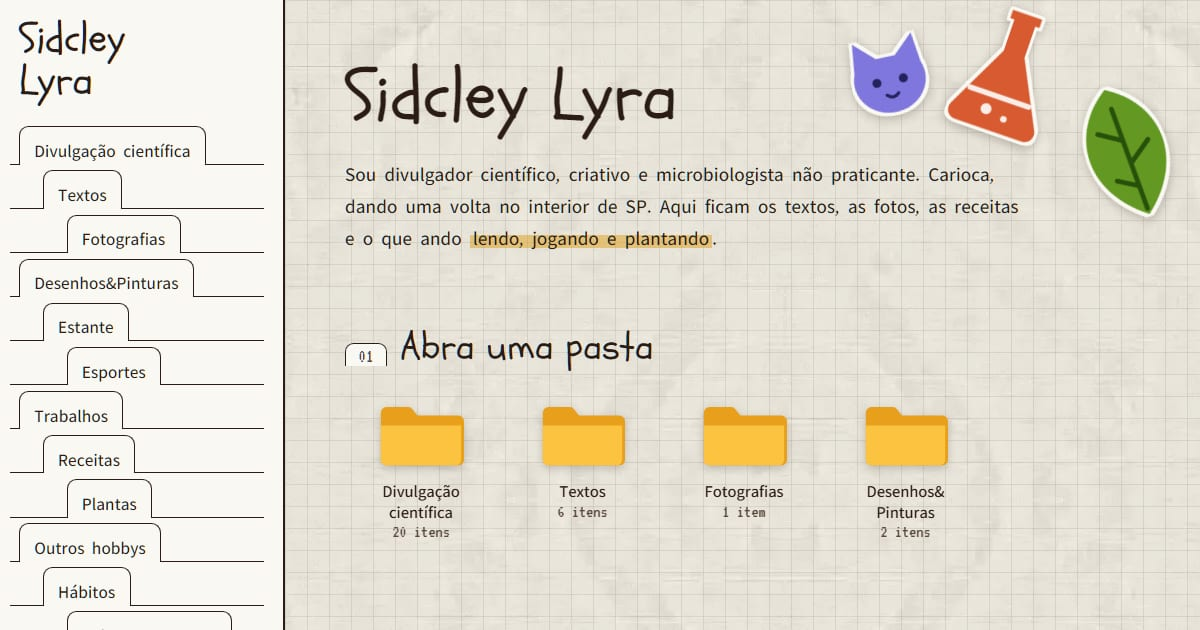
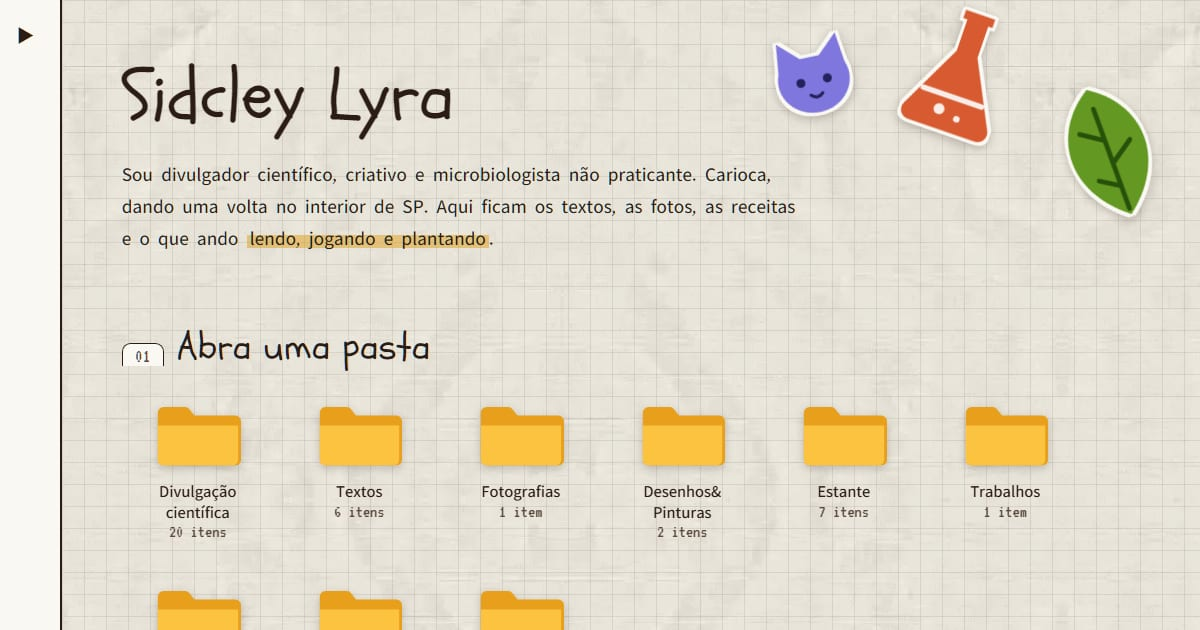
Ajustes da home, caminho navegável e menu recolhido
- novidades.txt: minimizar (só a barra de título) e maximizar (todas as
  entradas), com animação
- "1 online" ao lado da data; Hábitos e Vida em semanas como atalhos com
  ícones em pixel do kit (HP e ampulheta)
- menu lateral começa recolhido
- Hábitos volta aos botões anteriores, nas cores novas
- C:\LYRASID\... sai do pé e vira caminho navegável abaixo dos títulos

Changed region(s): [[0.0, 0.0, 0.8942, 1.0], [0.6475, 0.0, 0.9867, 0.3619], [0.4008, 0.9349, 0.4933, 1.0]]

diff --git a/src/assets/estilo.css b/src/assets/estilo.css
@@ -225,7 +225,6 @@ figcaption p { margin: .4rem 0 0; }
 /* pé de todas as páginas: a versão leva ao registro de mudanças (/mudancas/); à direita, o "caminho" da página */
 .versao { position: absolute; z-index: 2; bottom: 1.5rem; left: clamp(1rem, 5vw, 4rem); right: clamp(1rem, 5vw, 4rem); display: flex; flex-wrap: wrap; justify-content: space-between; gap: .2rem 1rem; font-family: var(--f-sis); font-size: 1rem; line-height: 1.1; color: var(--tinta-2); }
 .versao a { color: var(--vinho); }
-.versao .caminho { margin-left: auto; overflow-wrap: anywhere; }
 @media print { .versao { display: none; } }
 
 /* ---------- adesivos ---------- */
@@ -707,16 +706,24 @@ body.negado .console { color: #ff5f4e; animation: tremer .09s 4; }
 .habitos-senha { display: flex; flex-wrap: wrap; align-items: center; gap: .6rem; max-width: 30rem; }
 .habitos-senha[hidden] { display: none; }
 .habitos-senha label { flex-basis: 100%; }
-.habitos-senha input { flex: 1; min-width: 0; min-height: 2.3rem; padding: .35rem .6rem; font: inherit; color: var(--tinta); border: 0; background: var(--papel); box-shadow: var(--relevo-fundo); }
+.habitos-senha input { flex: 1; min-width: 0; padding: .35rem .6rem; font: inherit; color: var(--tinta); border: 1.5px solid var(--tinta); border-radius: .35rem; background: var(--papel); }
 .habitos-aviso { flex-basis: 100%; min-height: 1.6em; margin: 0; font-style: italic; }
+.habitos button { font: inherit; color: var(--tinta); }
+.habitos-senha button, .habitos-salvar { padding: .2rem .9rem; font: inherit; color: var(--tinta); background: var(--papel); border: 1.5px solid var(--tinta); border-radius: 999px; cursor: pointer; }
+.habitos-salvar:not(:disabled):hover, .habitos-senha button:hover { color: var(--papel); background: var(--vinho); border-color: var(--vinho); }
+.habitos-salvar:disabled { opacity: .35; cursor: default; }
 
 .habitos-topo { display: flex; flex-wrap: wrap; align-items: center; gap: .6rem 1.5rem; margin-bottom: 1rem; }
-.habitos-modo { display: flex; gap: 2px; }
-.habitos-nav { display: flex; align-items: center; gap: .6rem; }
+.habitos-modo, .habitos-nav { display: flex; align-items: center; gap: .6rem; }
+.habitos-modo button { padding: .1rem 0; background: none; border: 0; border-bottom: 2px solid transparent; opacity: .5; cursor: pointer; }
+.habitos-modo button[aria-pressed="true"] { opacity: 1; border-bottom-color: var(--vinho); }
+.habitos-nav button { padding: 0 .3rem; background: none; border: 0; cursor: pointer; }
+.habitos-nav button:disabled { opacity: .2; cursor: default; }
 .habitos-periodo { min-width: 9.5rem; margin: 0; font-size: 1.5rem; text-align: center; }
 
-.habitos-legenda { display: flex; flex-wrap: wrap; align-items: center; gap: .4rem .5rem; margin-bottom: 1rem; }
-.habitos-legenda button { display: inline-flex; align-items: center; gap: .45rem; }
+.habitos-legenda { display: flex; flex-wrap: wrap; align-items: center; gap: .3rem 1rem; margin-bottom: 1rem; font-size: .9rem; }
+.habitos-legenda button { display: flex; align-items: center; gap: .4rem; padding: .1rem .5rem; background: none; border: 1.5px solid transparent; border-radius: 999px; cursor: pointer; }
+.habitos-legenda button[aria-pressed="true"] { border-color: var(--tinta); }
 .habitos-legenda i { width: .9rem; height: .9rem; border: 1px solid rgba(43, 29, 22, .35); }
 .habitos-dica { opacity: .5; }
 .habitos[data-modo="ano"] .habitos-legenda { display: none; }
@@ -822,8 +829,7 @@ body.negado .console { color: #ff5f4e; animation: tremer .09s 4; }
 /* ---------- Caderno de Save: peças da interface ---------- */
 /* Conteúdo é papel; interface (salvar, abrir, escolher) é janela. Botões em relevo, retos,
    com a letra do computador (VT323); o principal em amarelo; ligado = afundado. */
-:where(.habitos-senha button, .habitos-salvar, .habitos-modo button, .habitos-nav button, .habitos-legenda button,
-    .edicao-barra button, .acoes-receita button, .cozinha-topo button:not(.cozinha-fechar)) {
+:where(.edicao-barra button, .acoes-receita button, .cozinha-topo button:not(.cozinha-fechar)) {
   display: inline-flex;
   align-items: center;
   justify-content: center;
@@ -840,10 +846,8 @@ body.negado .console { color: #ff5f4e; animation: tremer .09s 4; }
   box-shadow: var(--relevo);
   cursor: pointer;
 }
-:where(.habitos-senha button, .habitos-salvar, .edicao-barra [data-acao="salvar"]) { background: var(--amarelo); }
-:is(.habitos-modo, .habitos-legenda) button[aria-pressed="true"] { padding-top: .3rem; background: var(--cinza-luz); box-shadow: var(--relevo-fundo); }
-:where(.habitos-salvar, .habitos-nav button, .edicao-barra button):disabled { color: var(--cinza-sombra); background: var(--cinza-win); cursor: default; }
-.habitos-nav button { min-width: 2.3rem; padding-inline: .4rem; font-size: 1rem; }
+:where(.edicao-barra [data-acao="salvar"]) { background: var(--amarelo); }
+:where(.edicao-barra button):disabled { color: var(--cinza-sombra); background: var(--cinza-win); cursor: default; }
 .cozinha-topo button:not(.cozinha-fechar) { min-height: 2rem; font-size: 1.05rem; }
 
 /* datas, rótulos e contagens: o que o "computador" diz */
@@ -877,7 +881,8 @@ main > .post-it { max-width: 36rem; margin-bottom: 2.5rem; rotate: -.6deg; }
 .inicio .sobre h1 { margin-bottom: 1rem; }
 .inicio .sobre .texto { font-size: 1.05rem; }
 .inicio .sobre .texto > :first-child { margin-top: 0; }
-.saudacao { min-height: 1.2em; margin: 0 0 .4rem; font-family: var(--f-sis); font-size: 1.1rem; letter-spacing: .04em; color: var(--musgo); text-transform: uppercase; }
+.saudacao { display: flex; flex-wrap: wrap; gap: .2rem .6rem; min-height: 1.2em; margin: 0 0 .4rem; font-family: var(--f-sis); font-size: 1.1rem; letter-spacing: .04em; color: var(--musgo); text-transform: uppercase; }
+.saudacao-texto:not(:empty)::after { content: "·"; margin-left: .6rem; }
 
 /* título de seção com a aba numerada, como as divisórias do fichário */
 .aba-titulo { display: flex; align-items: flex-end; gap: .7rem; margin: 0 0 1.25rem; font-size: clamp(1.6rem, 3.2vw, 2.1rem); line-height: 1; }
@@ -892,18 +897,44 @@ main > .post-it { max-width: 36rem; margin-bottom: 2.5rem; rotate: -.6deg; }
 .inicio-mesa { display: flex; flex-wrap: wrap; align-items: flex-start; gap: 2.5rem 2.5rem; padding-bottom: 2rem; }
 .janela-fixa { flex: 1 1 22rem; max-width: 34rem; padding: 0; background: var(--cinza-win); box-shadow: var(--relevo), 6px 6px 0 rgba(43, 29, 22, .22); }
 .janela-fixa .janela-barra { padding-block: .3rem; }
-.janela-fixa .janela-botoes > * { cursor: default; }
+.janela-fixa .janela-botoes button { cursor: pointer; }
+.janela-fixa .janela-botoes button:active { box-shadow: var(--relevo-fundo); }
 .janela-fixa .janela-corpo { margin: 0 3px; padding: .5rem 1rem; list-style: none; }
+/* minimizada: o miolo (lista e status) encolhe para cima e fica só a barra de título */
+.janela-miolo { overflow: hidden; }
+.novidades.minimizada .janela-miolo { height: 0; }
+/* maximizada: todas as entradas e a largura toda da mesa (o post-it desce) */
+.inicio-mesa .novidades.maximizada { flex-basis: 100%; max-width: none; }
+.novidades:not(.maximizada) li:nth-child(n + 6) { display: none; }
 .novidades li { display: grid; grid-template-columns: 6.2rem minmax(0, 1fr) auto; gap: .2rem 1rem; align-items: baseline; padding: .55rem 0; border-bottom: 1px dashed rgba(43, 29, 22, .25); }
-.novidades li:last-child { border-bottom: 0; }
+.novidades li:last-child, .novidades:not(.maximizada) li:nth-child(5) { border-bottom: 0; }
 .novidades time { font-family: var(--f-sis); font-size: 1.05rem; color: var(--tinta-2); }
 .novidades li a { min-width: 0; }
 .novidades li small { font-family: var(--f-sis); font-size: 1rem; color: var(--musgo); text-align: right; }
-.janela-fixa .janela-status span:last-child { flex: 0 0 9rem; }
 .online::before { content: ""; display: inline-block; width: .6rem; height: .6rem; margin-right: .4rem; vertical-align: -.05rem; background: #5da83b; border: 1.5px solid var(--tinta); border-radius: 50%; }
 .inicio-mesa .post-it { flex: 0 1 18rem; margin-top: .5rem; }
 .post-it-data { margin: 0 0 .5rem; font-family: var(--f-sis); font-size: 1rem; color: var(--tinta-2); text-transform: uppercase; }
 .post-it-data a { color: inherit; }
+
+/* atalhos de programa (Hábitos, Vida em semanas): ícone em pixel com a setinha de atalho */
+.atalhos { display: flex; flex-wrap: wrap; gap: 1.25rem 1rem; margin: 0; padding: 0; list-style: none; }
+.atalho { display: grid; justify-items: center; gap: .35rem; width: 8rem; padding: .5rem; color: var(--tinta); text-align: center; text-decoration: none; }
+.atalho-icone { position: relative; display: grid; place-items: center; width: 4.5rem; height: 4rem; }
+.atalho-icone img { width: auto; height: 3.4rem; image-rendering: pixelated; filter: drop-shadow(0 3px 4px rgba(43, 29, 22, .22)); transition: transform .2s cubic-bezier(.2, .9, .3, 1.2); }
+.atalho-icone::after { content: "↗"; position: absolute; left: 0; bottom: 0; width: 1.1rem; height: 1.1rem; font-family: var(--f-sis); font-size: .95rem; line-height: 1.05rem; color: var(--tinta); background: var(--papel); box-shadow: inset 0 0 0 1.5px var(--tinta); }
+.atalho:hover img, .atalho:focus-visible img { transform: translateY(-6px) scale(1.07); }
+.atalho > span:not(.atalho-icone) { padding: .05rem .4rem; font-size: .9rem; line-height: 1.2; border-radius: 3px; }
+.atalho:hover > span:not(.atalho-icone), .atalho:focus-visible > span:not(.atalho-icone) { color: var(--papel); background: var(--tinta); }
+.atalho small { margin-top: -.2rem; font-family: var(--f-sis); font-size: .95rem; line-height: 1; color: var(--tinta-2); }
+
+/* caminho da página (C:\LYRASID\ESTANTE\) abaixo do título: cada pasta leva de volta a ela */
+.caminho { margin: 0 0 1.75rem; font-family: var(--f-sis); font-size: 1.15rem; line-height: 1.2; color: var(--tinta-2); overflow-wrap: anywhere; }
+h1 + .caminho { margin-top: -1rem; }
+.caminho a { color: var(--vinho); text-decoration: none; }
+.caminho a:hover, .caminho a:focus-visible { text-decoration: underline; }
+.caminho [aria-current] { color: var(--tinta); }
+.colecao .caminho + .meta { margin-top: -.6rem; }
+@media print { .caminho { display: none; } }
 
 @media (max-width: 768px) {
   .inicio { gap: 2.25rem; }

diff --git a/src/assets/site.js b/src/assets/site.js
@@ -23,12 +23,39 @@ document.addEventListener("click", (e) => {
 document.addEventListener("keydown", (e) => e.key === "Escape" && celular.matches && fecharMenu());
 
 // página inicial: "boa noite · 02.11.2026", na hora de quem visita
-const saudacao = document.querySelector(".saudacao");
+const saudacao = document.querySelector(".saudacao-texto");
 if (saudacao) {
   const agora = new Date();
   const hora = agora.getHours();
   const dia = (n) => String(n).padStart(2, "0");
   saudacao.textContent = `${hora >= 5 && hora < 12 ? "bom dia" : hora >= 12 && hora < 18 ? "boa tarde" : "boa noite"} · ${dia(agora.getDate())}.${dia(agora.getMonth() + 1)}.${agora.getFullYear()}`;
+}
+
+// página inicial: novidades.txt minimiza (fica só a barra de título, no mesmo lugar) e maximiza (todas as entradas)
+const novidades = document.querySelector(".novidades");
+if (novidades) {
+  const miolo = novidades.querySelector(".janela-miolo");
+  const [minimizar, maximizar] = novidades.querySelectorAll(".janela-botoes button");
+  const contagem = novidades.querySelector(".novidades-contagem");
+  const total = Number(contagem.dataset.total);
+  const calmo = matchMedia("(prefers-reduced-motion: reduce)");
+  // troca o estado e anima do tamanho antigo para o novo (a janela cresce e encolhe a partir do topo)
+  const trocar = (min, max) => {
+    const antes = { janela: novidades.getBoundingClientRect(), miolo: miolo.offsetHeight };
+    novidades.classList.toggle("minimizada", min);
+    novidades.classList.toggle("maximizada", max);
+    minimizar.setAttribute("aria-pressed", min);
+    maximizar.setAttribute("aria-pressed", max);
+    maximizar.textContent = max ? "❐" : "□";
+    maximizar.setAttribute("aria-label", max ? "Restaurar: voltar às 5 mais recentes" : "Maximizar: ver todas as novidades");
+    contagem.textContent = max || total <= 5 ? `${total} ${total === 1 ? "item" : "itens"}` : `5 de ${total} itens`;
+    if (calmo.matches) return;
+    const opcoes = { duration: 280, easing: "cubic-bezier(.2, .8, .3, 1)" };
+    miolo.animate([{ height: antes.miolo + "px" }, { height: miolo.offsetHeight + "px" }], opcoes);
+    novidades.animate([{ width: antes.janela.width + "px" }, { width: novidades.getBoundingClientRect().width + "px" }], opcoes);
+  };
+  minimizar.addEventListener("click", () => trocar(!novidades.classList.contains("minimizada"), false));
+  maximizar.addEventListener("click", () => trocar(false, !novidades.classList.contains("maximizada")));
 }
 
 // o link com #id abre o item: subtítulo que expande, pasta que vira janela ou ficha da estante

diff --git a/eleventy.config.js b/eleventy.config.js
@@ -221,6 +221,12 @@ export default function (eleventyConfig) {
   };
   eleventyConfig.addFilter("linkDoTexto", linkDoTexto);
 
+  // C:\LYRASID\FOTOGRAFIAS\PRAIA\ abaixo do título: cada pasta do endereço vira um link para ela.
+  eleventyConfig.addFilter("caminho", (url) => {
+    const partes = String(url ?? "").split("/").filter(Boolean);
+    return partes.map((p, i) => ({ nome: decodeURIComponent(p).toUpperCase(), url: "/" + partes.slice(0, i + 1).join("/") + "/" }));
+  });
+
   // ---------- página inicial ----------
   const paginaDaEstante = (paginas) => paginas.find((p) => p.data.tipo === "estante");
   // Quantos itens cada pasta guarda: a estante conta os dela, as outras páginas contam os textos.

diff --git a/CHANGELOG.md b/CHANGELOG.md
@@ -8,12 +8,14 @@ O que mudou no site, do mais novo para o mais antigo. Só entram mudanças no fu
   - **Cores:** saem o preto e o branco puros. O texto passa a ser tinta sépia, as folhas ficam cor de papel e a mesa vira papel almaço. Entram o amarelo d'O Jogador (botão principal e marca-texto) e o verde musgo. A margem do caderno pautado fica vinho, e a pauta, num azul mais suave.
   - **Janelas** com a barra vinho, no lugar do azul do Windows 98, e cinzas puxados para o marrom do papel. A ficha da estante também abre numa janela, com nome de arquivo ("dark_matter.txt") e o tipo e as datas na barra de baixo.
   - **Letra de computador (VT323)** em tudo o que o "computador" diz: títulos de janela, botões, datas, versão e rótulos dos filtros. As datas passam a ser escritas como 02.11.2026.
-  - **Botões em relevo** no Hábitos, no modo de edição e nas receitas, com o principal (Salvar, Abrir) em amarelo. Pincel e Mês/Ano ligados ficam afundados.
-  - **Barra lateral:** a pasta aberta fica vinho, a busca vira "Buscar no caderno…" e o "Estou fazendo agora" mostra o que está em andamento na estante ("→ vendo Magnum").
-  - **Pé das páginas:** "versão 0.x · mudanças" à esquerda e o caminho da página à direita, como numa pasta do computador (`C:\LYRASID\ESTANTE\`).
+  - **Botões em relevo** no modo de edição e nas receitas, com o principal (Salvar) em amarelo. O Hábitos mantém os botões de antes, nas cores novas.
+  - **Barra lateral:** começa recolhida (quem abrir uma vez no computador continua com ela aberta). A pasta aberta fica vinho, a busca vira "Buscar no caderno…" e o "Estou fazendo agora" mostra o que está em andamento na estante ("→ vendo Magnum").
+  - **Caminho da página** abaixo do título, como numa pasta do computador: `C:\LYRASID\FOTOGRAFIAS\EXPOSICAO-PASSA-A-VISAO\`. Cada pasta do caminho é um link de volta para ela (substitui o "← Fotografias" das coleções). O pé das páginas fica só com "versão 0.x · mudanças".
   - **Marca-texto** passa a grifar a metade de baixo da linha, em amarelo, verde ou vermelho nos tons da marca. Hábitos e Vida em semanas trocam o azul e o roxo dos gráficos por cores da paleta.
   - **Favicon** com SL em letra de mão sobre o vinho, e a prévia de compartilhamento mostra a página inicial nova.
-- **Página inicial nova:** saudação com a hora e a data de quem visita ("boa noite · 02.11.2026"), a apresentação, e "Abra uma pasta" com as seções que têm conteúdo e quantos itens cada uma guarda. Embaixo, a janela novidades.txt com as cinco últimas coisas que entraram no site e um post-it com os tópicos do "agora", que leva para `/now/`.
+- **Página inicial nova:** saudação com a hora e a data de quem visita ("boa noite · 02.11.2026 · 1 online"), a apresentação, e "Abra uma pasta" com as seções que têm conteúdo e quantos itens cada uma guarda. Embaixo, a janela novidades.txt com as últimas coisas que entraram no site e um post-it com os tópicos do "agora", que leva para `/now/`.
+  - **novidades.txt** mostra as cinco mais recentes. O botão de maximizar abre a janela na largura toda, com todas as entradas; o de minimizar recolhe a janela para cima, e fica só a barra de título, no mesmo lugar. As duas trocas são animadas.
+  - **Atalhos:** Hábitos e Vida em semanas, que não guardam itens, entram como atalhos de programa (coração de HP e ampulheta em pixel, com a setinha de atalho), no lugar de pastas.
 - **Página Now:** a postagem mais recente vira um post-it colado na folha.
 - **Página Hábitos:** habit tracker com 20 parâmetros em cinco grupos (sono, corpo, mente, pessoas e lazer, rotina), um quadradinho por dia: verde bom, amarelo médio, vermelho ruim, cinza não anotado. Cada clique troca a cor; escolhendo uma cor na legenda, ela vira pincel e dá para arrastar pintando vários dias. Navega de mês em mês a partir de novembro de 2026, e os dias futuros ficam travados.
   - **Gráfico de linha** de sono, humor, ansiedade e saúde no mês, que são estados do dia (sobem e descem), não hábitos de fazer ou não fazer.
